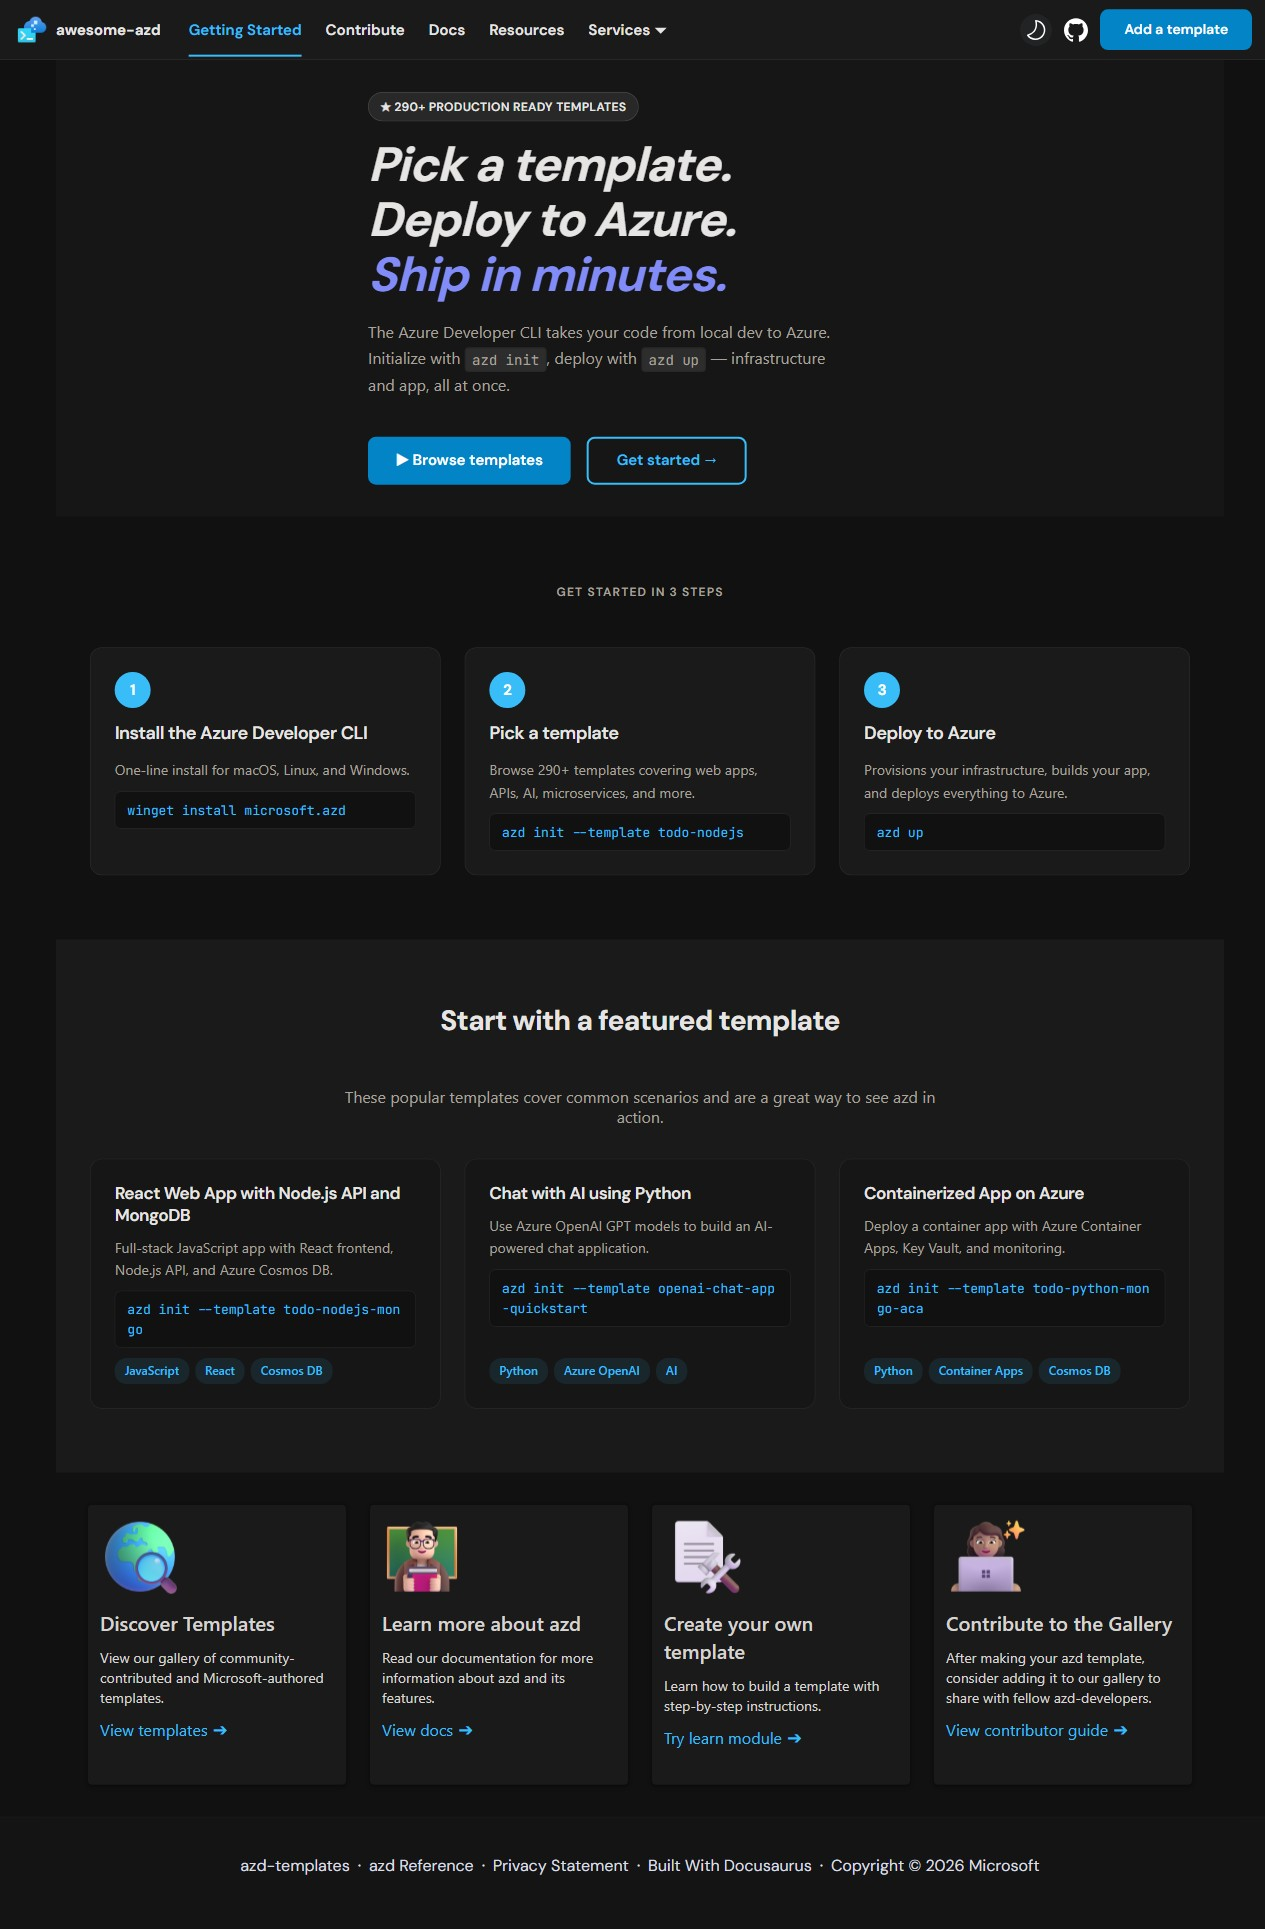
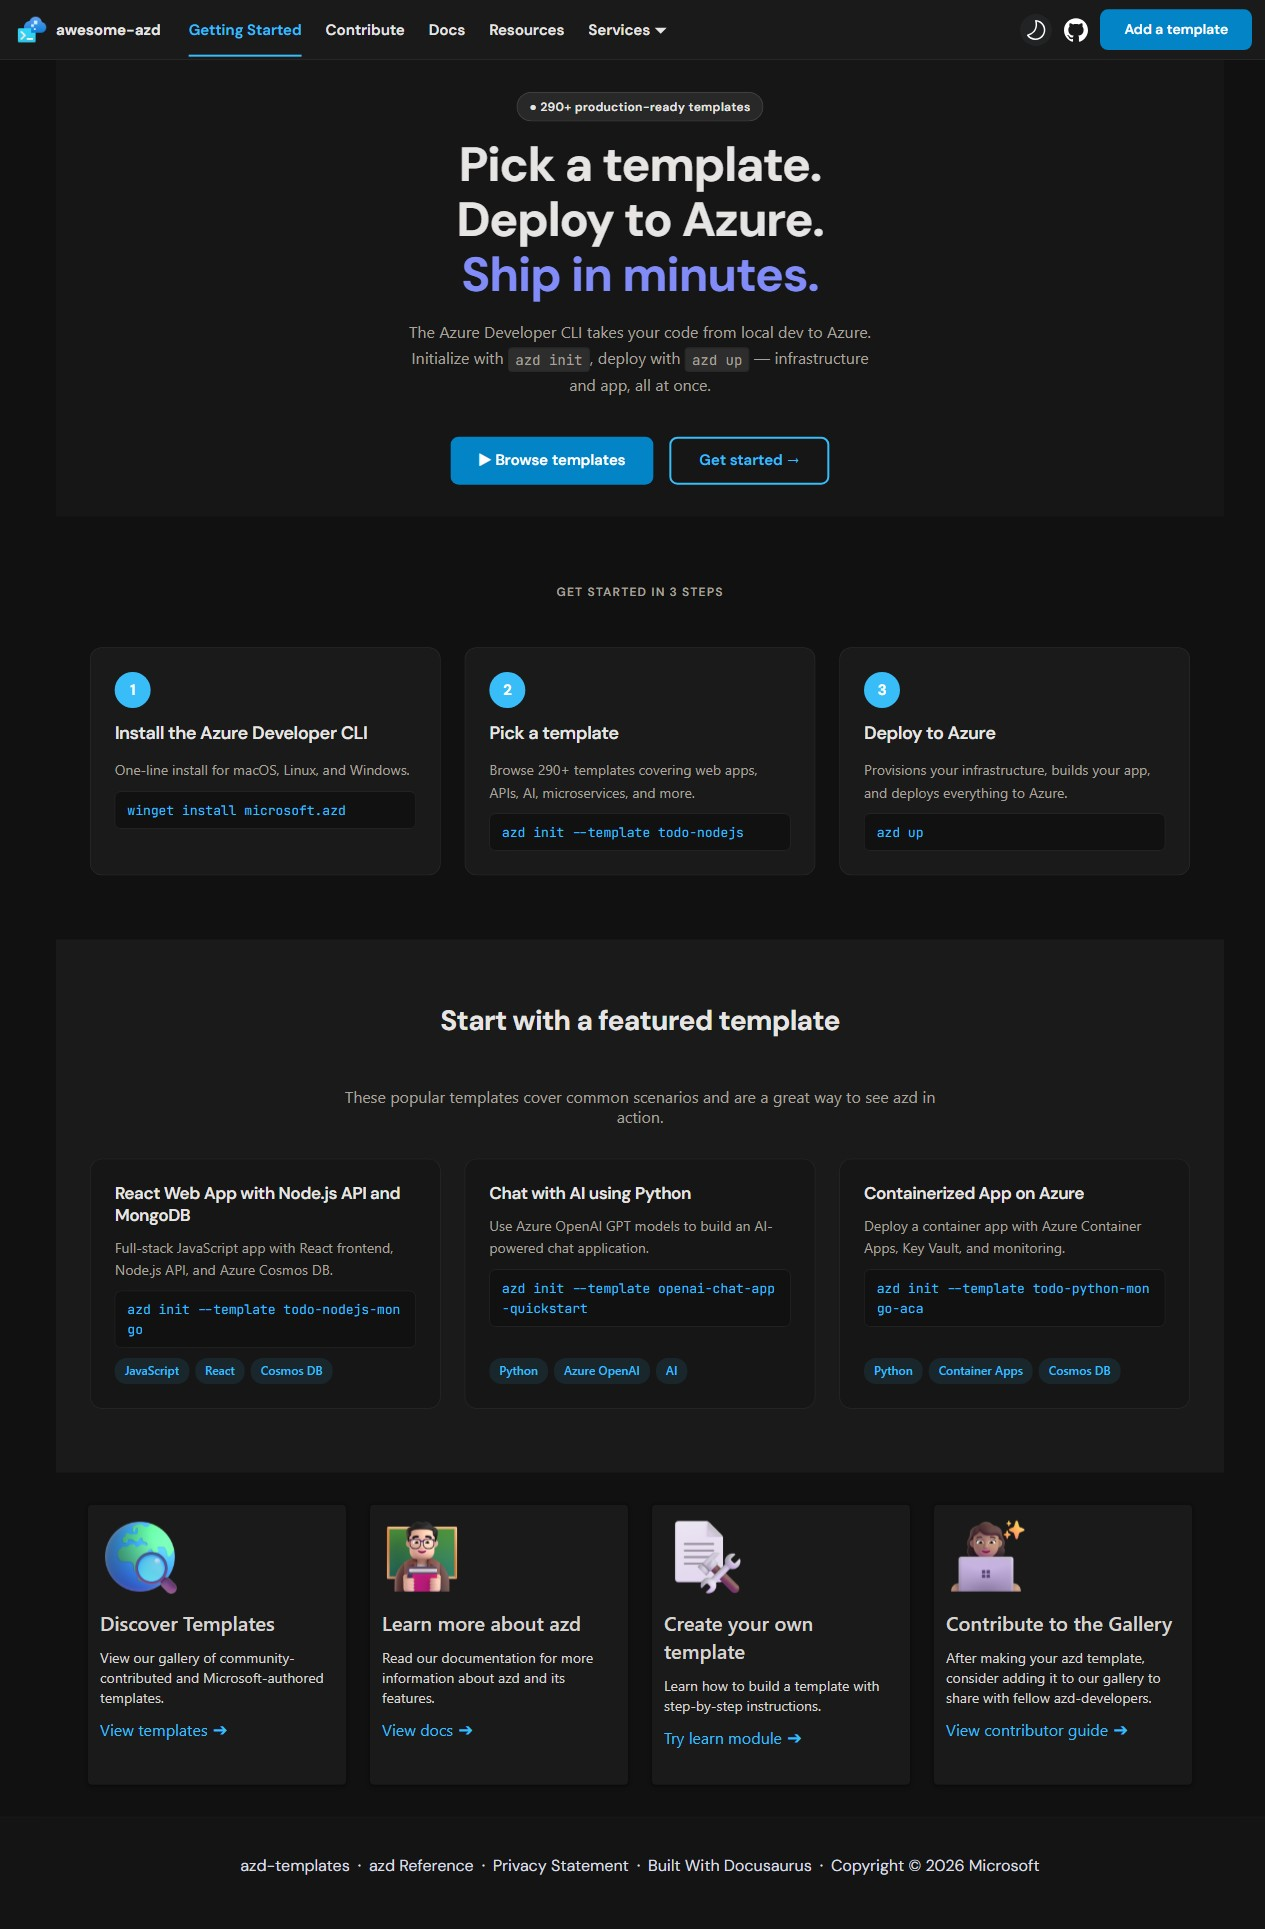
fix: match designer mockup - center hero, remove italic, update ACA copy
- Remove font-style: italic from hero title (matches mockup)
- Center hero content (badge, title, subtitle, buttons)
- Change badge from star to bullet, lowercase text
- Remove uppercase text-transform from badge
- Update ACA page copy per @kristenwomack feedback
- Update screenshots

Changed region(s): [[0.2775, 0.0311, 0.6783, 0.2488]]

diff --git a/website/src/pages/services/container-apps.tsx b/website/src/pages/services/container-apps.tsx
@@ -9,9 +9,9 @@ import ServiceLandingPage from "@site/src/components/ServiceLandingPage";
 const config = {
   serviceTag: "aca",
   title: "Azure Container Apps",
-  tagline: "Deploy containerized apps without managing infrastructure",
+  tagline: "Get started quickly with ready-to-deploy templates",
   description:
-    "Azure Container Apps lets you run microservices and containerized applications on a serverless platform. Build and deploy modern apps with autoscaling, Dapr integration, and KEDA event-driven scaling — all without managing Kubernetes clusters.",
+    "Browse templates for microservices and containerized applications on Azure Container Apps \u2014 a serverless platform with built-in autoscaling, Dapr integration, and KEDA event-driven scaling. Pick a template and deploy.",
   icon: "/img/Azure-Container-Apps.svg",
   quickStart: [
     {

diff --git a/website/src/pages/getting-started/styles.module.css b/website/src/pages/getting-started/styles.module.css
@@ -23,12 +23,13 @@
 }
 
 .description {
-  max-width: 34rem;
+  max-width: 42rem;
   flex: 1;
   display: flex;
   justify-content: center;
-  align-items: flex-start;
+  align-items: center;
   flex-flow: column;
+  text-align: center;
   color: var(--site-color-text);
 }
 
@@ -151,7 +152,6 @@
   border-radius: 2em;
   padding: 4px 12px;
   margin-bottom: var(--space-md);
-  text-transform: uppercase;
 }
 
 [data-theme="dark"] .openSourceBadge {
@@ -199,7 +199,6 @@
 .heroTitle {
   font-size: clamp(2rem, 5vw, 3rem);
   font-weight: 700;
-  font-style: italic;
   font-family: var(--ifm-heading-font-family);
   letter-spacing: -0.02em;
   line-height: 1.15;

diff --git a/website/src/pages/getting-started/index.js b/website/src/pages/getting-started/index.js
@@ -23,7 +23,7 @@ function HomepageHeader() {
       <div className={styles.section}>
         <div className={styles.description}>
           <span className={styles.openSourceBadge}>
-            &#9733; 290+ production ready templates
+            &#9679; 290+ production-ready templates
           </span>
           <h1 className={styles.heroTitle}>
             Pick a template.<br />
